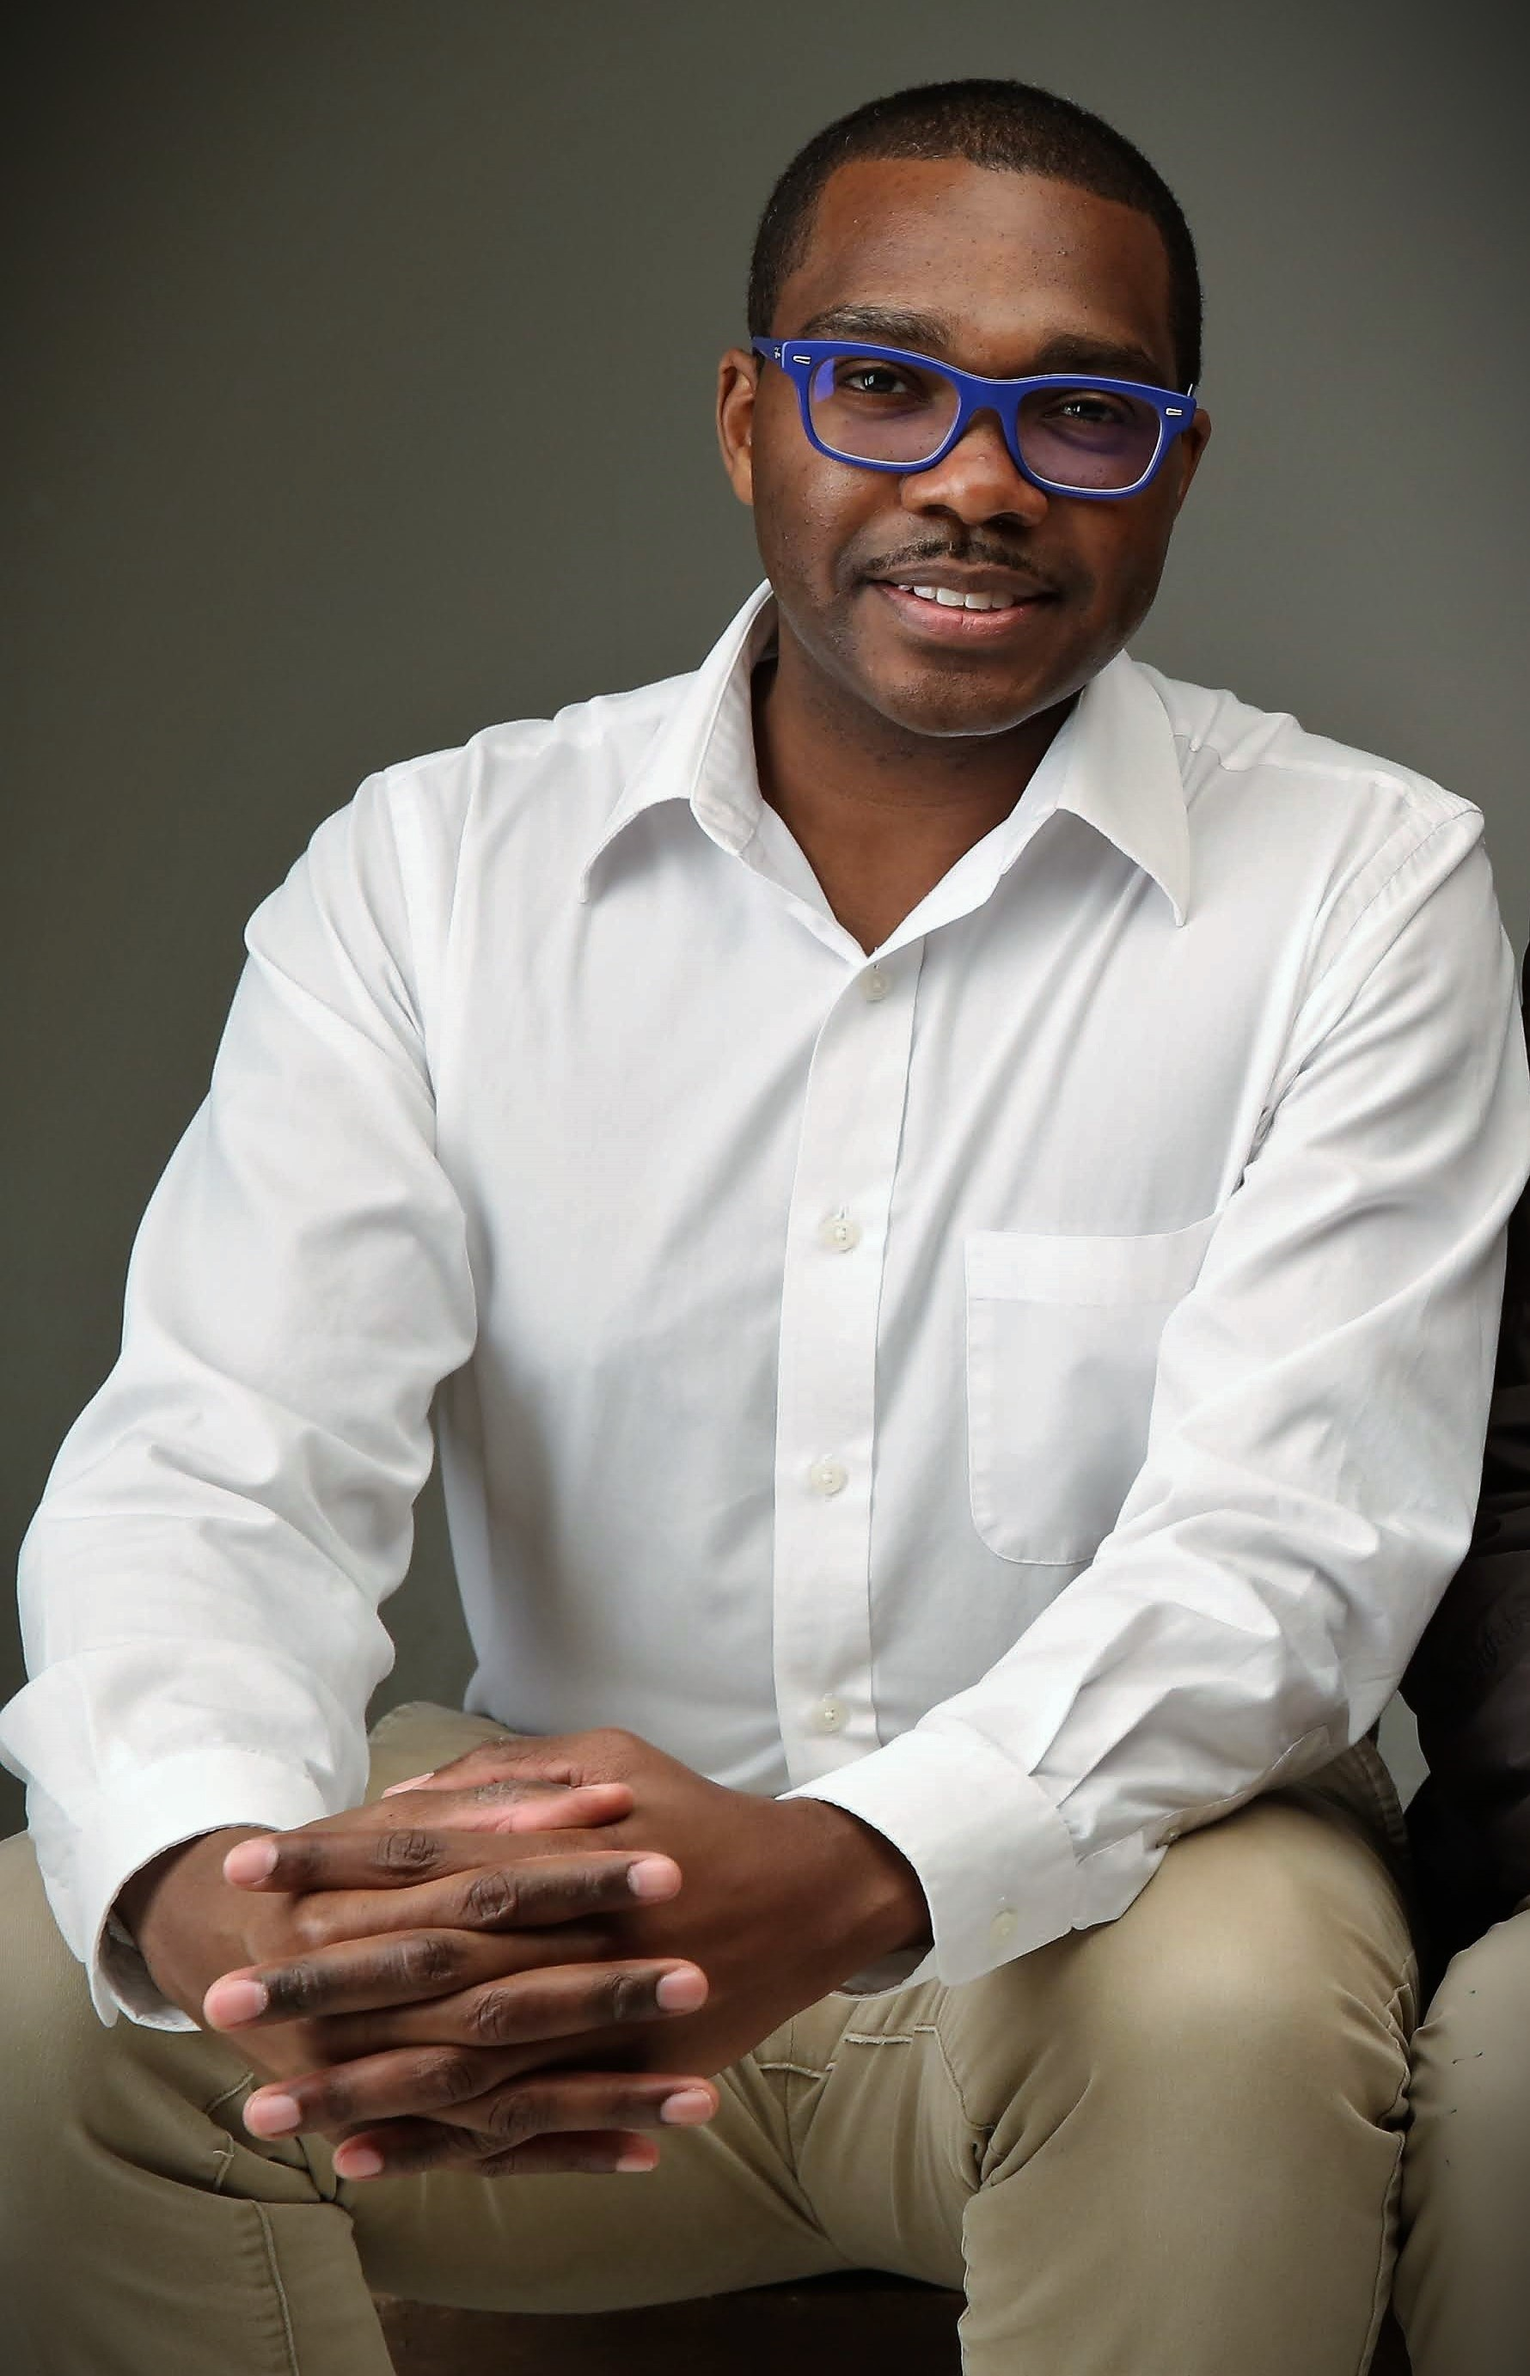
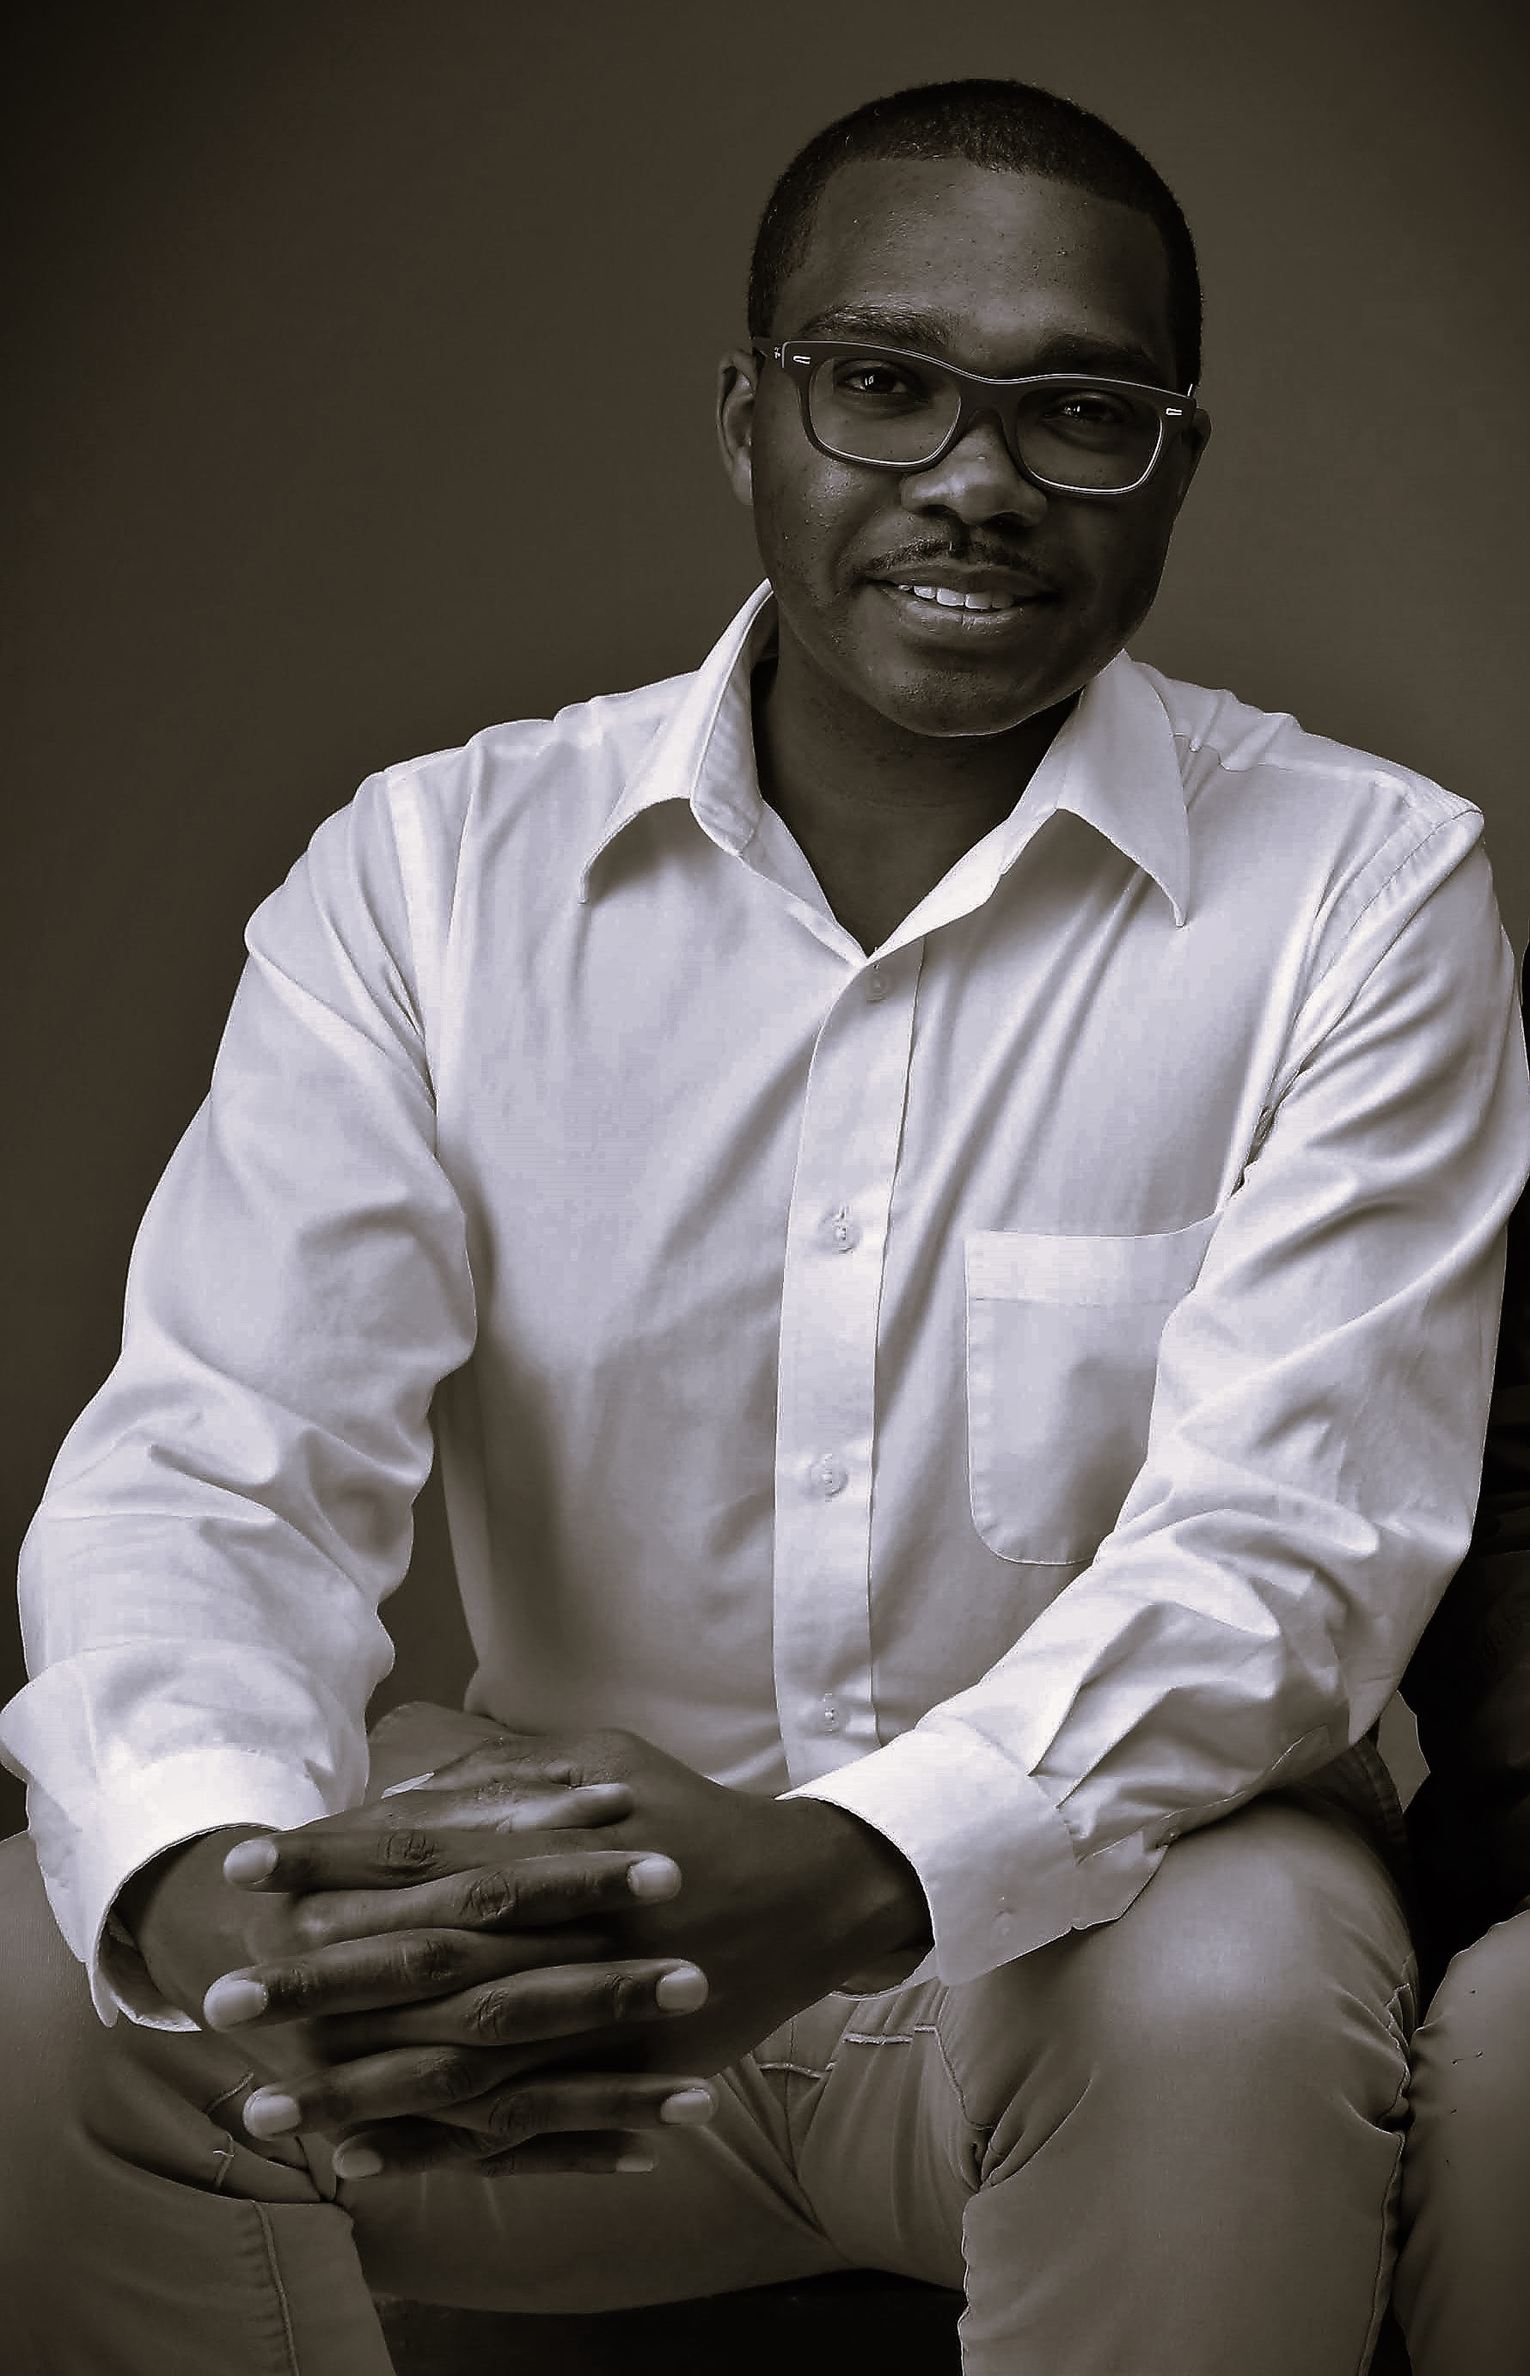
further tweaks to profile image and assoc CSS classes, continuing to add resume work history bullets

diff --git a/index.html b/index.html
@@ -22,15 +22,14 @@
         </nav>
         <div class="content-bg">
             <div class="content-wrap alpha-bg">
-                <img class="profile-img col-narrow" src="assets/images/profile.jpg" alt="profile picture of Andrew Noonoo">
+                <img class="profile-img col-narrow" src="assets/images/profile-2.jpg" alt="profile picture of Andrew Noonoo">
                 <div class="col-wide">
                     <h1>Andrew Noonoo</h1>
                     <h2>Software Engineer</h2>
+                    <p>Thanks for stopping by!</p>
                     <p>
-                        Thanks for stopping by!</br>
-
-                        I'm a self-taught programmer with an interest in philosophy, language, and culture.
-                        My hobbies include singing, cooking, and solving puzzles.
+                        I'm a self-taught programmer with interests in philosophy, theoretical physics, languages, and culture.
+                        In short, I am a constant figure on the road to knowledge.  In my spare time, I enjoy singing, cooking, and solving logic puzzles.
                     </p>
                     <blockquote>
                         <p>
@@ -114,16 +113,11 @@
                             This change enabled customer support engineers to more efficiently troubleshoot end-user virtual machines
                         </li>
                         <li>
-                            TODO: Accomplishment
+                            TODO: Accomplished [X] as measured by [Y], by doing [Z] (ETag Integrity Check)
+
                         </li>
                         <li>
-                            TODO: Accomplishment
-                        </li>
-                        <li>
-                            TODO: Accomplishment
-                        </li>
-                        <li>
-                            TODO: Accomplishment
+                            TODO: Accomplished [X] as measured by [Y], by doing [Z] ()
                         </li>
                     </ul>
                 </div>
@@ -149,19 +143,13 @@
 
                     <ul>
                         <li>
-                            TODO: Accomplishment
+                            TODO: Accomplished [X] as measured by [Y], by doing [Z]
                         </li>
                         <li>
-                            TODO: Accomplishment
+                            TODO: Accomplished [X] as measured by [Y], by doing [Z]
                         </li>
                         <li>
-                            TODO: Accomplishment
-                        </li>
-                        <li>
-                            TODO: Accomplishment
-                        </li>
-                        <li>
-                            TODO: Accomplishment
+                            TODO: Accomplished [X] as measured by [Y], by doing [Z]
                         </li>
                     </ul>
                 </div>
@@ -187,22 +175,22 @@
 
                     <ul>
                         <li>
-                            Developed self-healing scripts using Ruby and Chef, enabling
-                            deployed care providers to focus on patient care.
+                            Enabled DoD medical professionals to focus on patient care sans IT troubleshooting by developing service monitoring 
+                            scripts in Ruby and leveraging Chef continuous delivery to automate validation and code infrastrucure change management 
+                            within the DoD MHS Genesis production environment.
+                            .
                         </li>
                         <li>
-                            Diagnosed and resolved hardware/software issues on client site
-                            during a system deployment go-live.
+                            Accomplished [X] as measured by [Y], by doing [Z]
+                            Provisioned and configured Redhat Linux/Windows Server VMs
                         </li>
                         <li>
-                            Created and configured Redhat Linux/Windows Server VMs by
-                            leveraging VMWare.
-                        </li>
-                        <li>
+                            Accomplished [X] as measured by [Y], by doing [Z]
                             Tested quality control of code through SVN version control and
                             regression testing.
                         </li>
                         <li>
+                            Accomplished [X] as measured by [Y], by doing [Z]
                             Edited web application XML to isolate elements of the default GUI
                             and regression test button behavior.
                         </li>

diff --git a/assets/css/styles.css b/assets/css/styles.css
@@ -70,14 +70,14 @@ header {
   position: relative;
 }
 .content-bg {
-  background-image: url(../assets/images/tech-glasses.jpg);
+  background-image: url('../images/tech-glasses.jpg');
   background-repeat: no-repeat;
   background-position: center;
   background-attachment: fixed;
   background-size: cover;
 }
 .alpha-bg {
-  background-color: rgba(11, 11, 11, 0.5); /*an alpha transparency screen*/
+  background-color: rgba(11, 11, 11, 0.8); /*an alpha transparency screen*/
 }
 header h1, header h2 {
   color: #EDF2F4;
@@ -94,7 +94,8 @@ blockquote>p:after {
   font-size: 20px;
 }
 .profile-img {
-  border-radius: 30%;
+  border-radius: 100%;
+  border: ridge 3px white;
 }
 .download {
   position: absolute;

diff --git a/assets/css/styles.min.css b/assets/css/styles.min.css
@@ -80,7 +80,7 @@ header {
 }
 
 .content-bg {
-    background-image: url(../assets/images/tech-glasses.jpg);
+    background-image: url('../images/tech-glasses.jpg');
     background-repeat: no-repeat;
     background-position: center;
     background-attachment: fixed;
@@ -88,7 +88,7 @@ header {
 }
 
 .alpha-bg {
-    background-color: rgba(11,11,11,.5)
+    background-color: rgba(11,11,11,.8)
 }
 
 header h1, header h2 {
@@ -109,7 +109,8 @@ blockquote > p:after {
 }
 
 .profile-img {
-    border-radius: 50%
+    border-radius: 100%;
+    border: 3px ridge #fff
 }
 
 .download {
